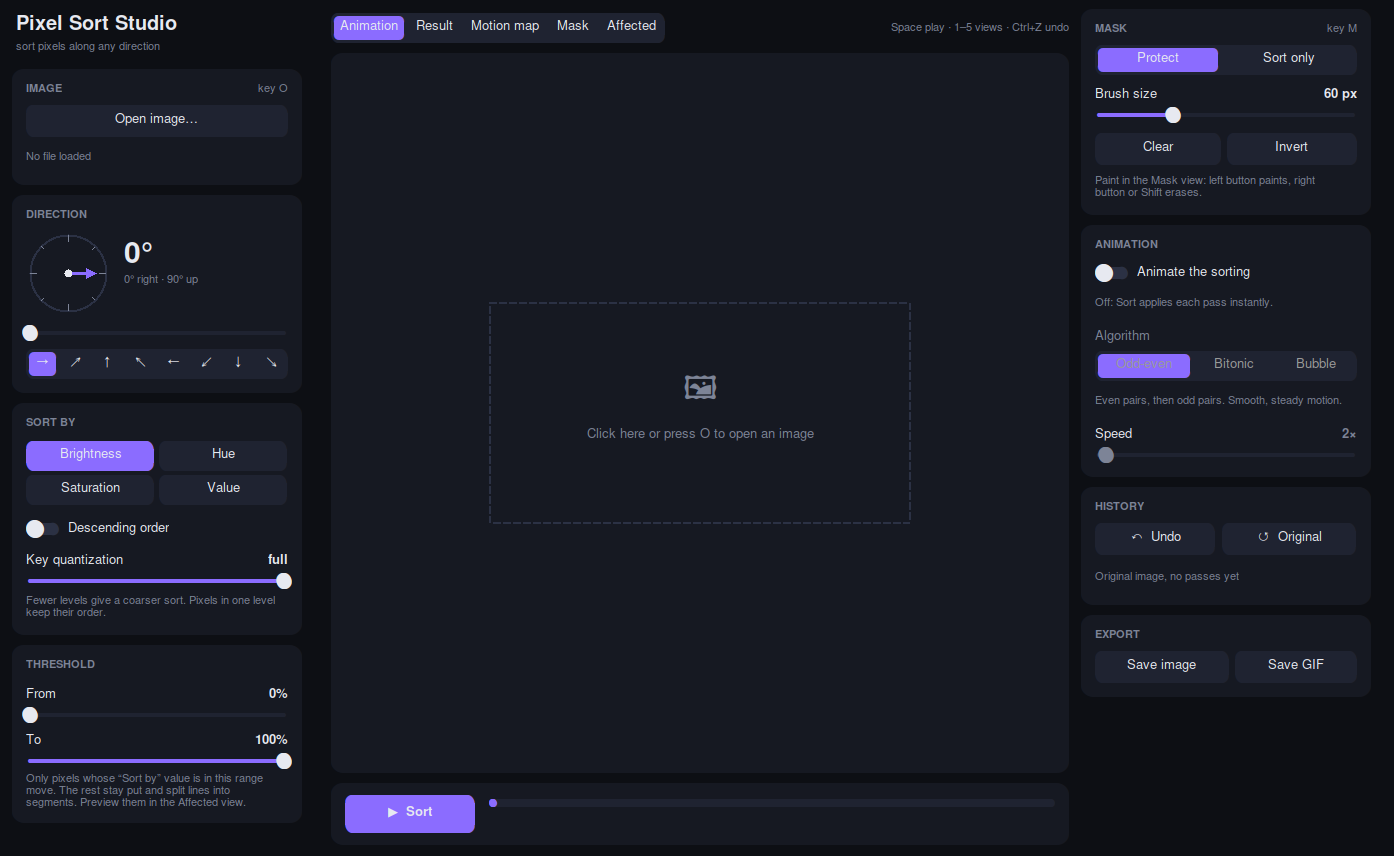
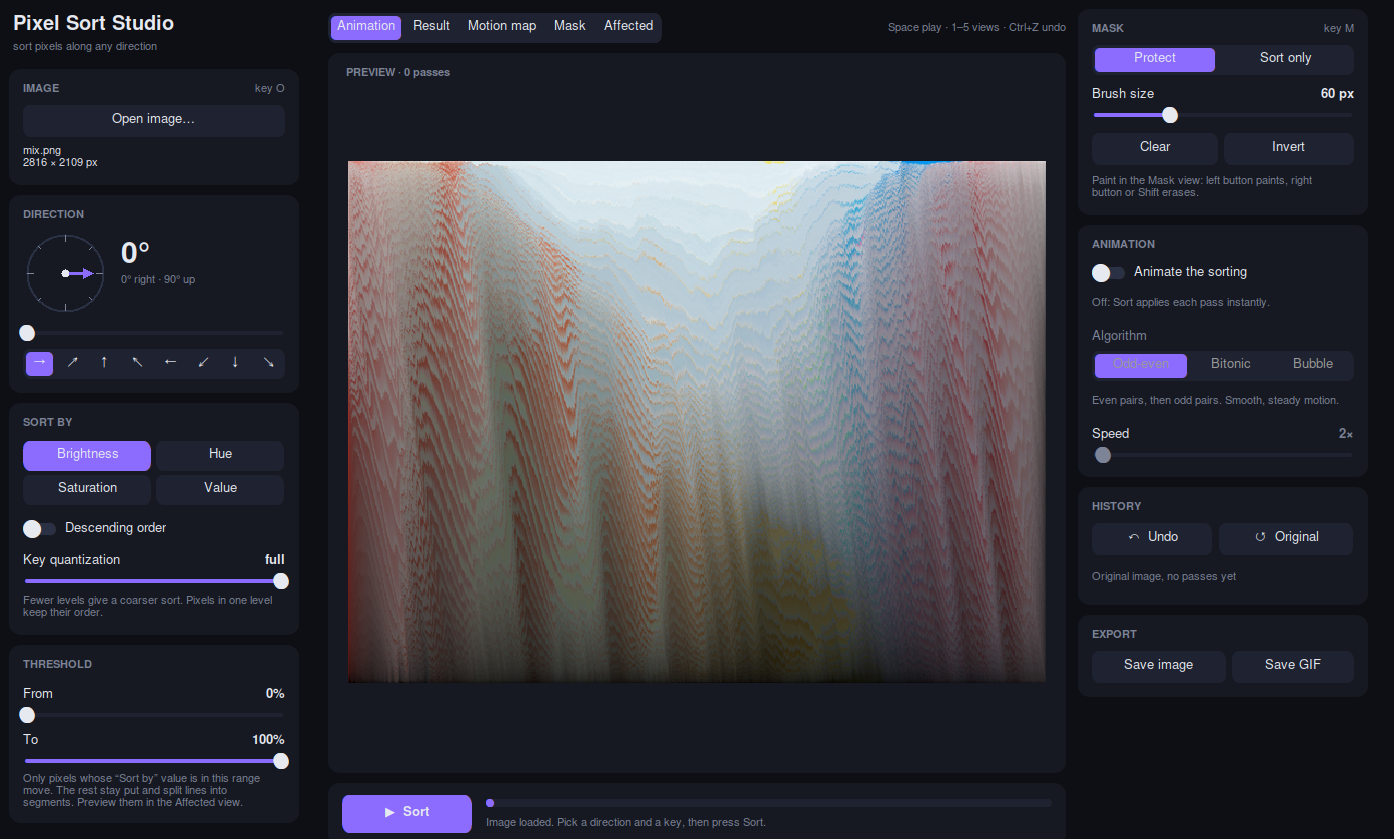
Ignore mouse-wheel events from Tk's own widgets in the side panels

diff --git a/theme.py b/theme.py
@@ -22,6 +22,12 @@ FONT_BIG = (FAMILY, -30, "bold")
 
 PAD = 14   # inner padding of a card
 
+# CustomTkinter bug: the side panels listen to the mouse wheel app-wide, and over widgets Tk builds itself
+# (such as the file dialog) event.widget is a plain string, which crashes the scroll check.
+_valid_scroll = ctk.CTkScrollableFrame._check_if_valid_scroll
+ctk.CTkScrollableFrame._check_if_valid_scroll = (
+    lambda self, widget: not isinstance(widget, str) and _valid_scroll(self, widget))
+
 
 def hex_to_rgb(h):
     h = h.lstrip("#")
